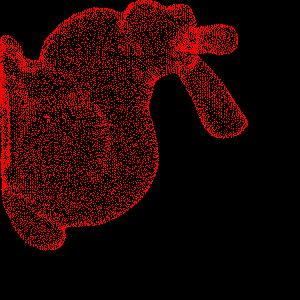
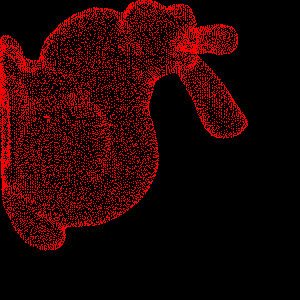
added Barycentric Coordinate counting and rect drawing

diff --git a/src/main/java/com/project/worker2d/ImageCreate.java b/src/main/java/com/project/worker2d/ImageCreate.java
@@ -1,56 +1,45 @@
 package com.project.worker2d;
 
+import com.project.utils.MathFunctions;
 import com.project.worker3d.Point3d;
 
 import java.util.Comparator;
 import java.util.List;
-import java.util.function.Function;
 
 public class ImageCreate {
-    private final Image image;
+    private Image image;
 
     public ImageCreate(Image image) {
         this.image = image;
     }
 
-    public void createStar() {
-        Function<Integer, Double> alpha = i -> 2 * Math.PI * i / 13;
-        for (int i = 0; i < 16; i++) {
-            var x = (int) Math.round(100 + 95 * Math.cos(alpha.apply(i)));
-            var y = (int) Math.round(100 + 95 * Math.sin(alpha.apply(i)));
-            line(x, y, image.width / 2, image.height / 2, image.matrix, Pixel.red());
-        }
-        image.save();
-    }
-
-    private void line(int x0, int y0, int x1, int y1, Pixel[][] matrix, Pixel pixel) {
-        for (float t = 0; t < 1; t += 0.01) {
-            int x = (int) (x0 * (1 - t) + x1 * t);
-            int y = (int) (y0 * (1 - t) + y1 * t);
-            matrix[x][y] = pixel;
-        }
-    }
-
-    public void create3dLines(List<Point3d> points) {
-        double minX = points.stream().min(Comparator.comparing((point) -> point.x)).get().x;
-        double minY = points.stream().min(Comparator.comparing((point) -> point.y)).get().y;
-        int k = 2500;
-        points.forEach(point1 -> {
-            points.forEach(point2 -> {
-                line(((int) ((point1.y - minY) * k)), (int)((point1.x - minX) * k),
-                        ((int) ((point2.y - minY) * k)), ((int) ((point2.x - minX) * k)), image.matrix, Pixel.red());
-            });
-        });
-        image.save();
+    public void setImage(Image image) {
+        this.image = image;
     }
 
     public void create3dPoints(List<Point3d> points) {
         double minX = points.stream().min(Comparator.comparing((point) -> point.x)).get().x;
         double minY = points.stream().min(Comparator.comparing((point) -> point.y)).get().y;
         int k = 2500;
-        points.forEach(point -> {
-            image.matrix[((int) ((point.y - minY) * k))][(int) ((point.x - minX) * k)] = Pixel.red();
-        });
+        points.forEach(point ->
+                image.matrix[((int) ((point.y - minY) * k))][(int) ((point.x - minX) * k)] = Pixel.red()
+        );
         image.save();
+    }
+
+    public void createRectangle(Point3d point1, Point3d point2, Point3d point3) {
+        var matrix = this.image.matrix;
+        for (int x = 0; x < matrix.length; x++) {
+            var row = matrix[x];
+            for (int y = 0; y < row.length; y++) {
+                var cord = MathFunctions.countBarycentricCoordinate(new Point3d(x, y, 0), point1, point2, point3);
+                if (cord.isGreaterThen0()) {
+                    matrix[x][y] = Pixel.red();
+                }
+            }
+
+        }
+        image.save();
+
     }
 }

diff --git a/src/main/java/com/project/utils/MathFunctions.java b/src/main/java/com/project/utils/MathFunctions.java
@@ -1,0 +1,37 @@
+package com.project.utils;
+
+import com.project.worker3d.Point3d;
+
+import java.util.Arrays;
+
+public class MathFunctions {
+    public static BarycentricCoordinate countBarycentricCoordinate(Point3d point, Point3d point0, Point3d point1, Point3d point2) {
+        int x = (int) point.x;
+        int y = (int) point.y;
+        double x0 = point0.x;
+        double x1 = point1.x;
+        double x2 = point2.x;
+        double y0 = point0.y;
+        double y1 = point1.y;
+        double y2 = point2.y;
+        return countBarycentricCoordinate(x, y, x0, x1, x2, y0, y1, y2);
+    }
+
+    public static BarycentricCoordinate countBarycentricCoordinate(
+            int x, int y, double x0, double x1, double x2, double y0, double y1, double y2) {
+
+        double lambda0 = ((x1 - x2) * (y - y2) - (y1 - y2) * (x - x2)) / ((x1 - x2) * (y0 - y2) - (y1 - y2) * (x0 - x2));
+        double lambda1 = ((x2 - x0) * (y - y0) - (y2 - y0) * (x - x0)) / ((x2 - x0) * (y1 - y0) - (y2 - y0) * (x1 - x0));
+        double lambda2 = ((x0 - x1) * (y - y1) - (y0 - y1) * (x - x1)) / ((x0 - x1) * (y2 - y1) - (y0 - y1) * (x2 - x1));
+        return new BarycentricCoordinate(lambda0, lambda1, lambda2);
+    }
+
+    public static double min(double... points) {
+        double res = Arrays.stream(points).min().orElse(0);
+        return res < 0 ? 0 : res;
+    }
+
+    public static double max(double... points) {
+        return Arrays.stream(points).min().orElse(0);
+    }
+}

diff --git a/src/main/java/com/project/Main.java b/src/main/java/com/project/Main.java
@@ -3,6 +3,7 @@ package com.project;
 import com.project.worker2d.Image;
 import com.project.worker2d.ImageCreate;
 import com.project.worker3d.ObjParser;
+import com.project.worker3d.Point3d;
 
 import java.util.Scanner;
 
@@ -20,5 +21,14 @@ public class Main {
         ObjParser parser = new ObjParser();
         parser.parseFile("test.obj");
         imageCreate.create3dPoints(parser.getPoints());
+        image = new Image(W, H, "rect.png");
+        image.colorToBlack();
+        imageCreate.setImage(image);
+        imageCreate.createRectangle(new Point3d(10, 10, 0), new Point3d(150, 50, 0), new Point3d(200, 20, 0));
+        image = new Image(W, H, "rect1.png");
+        image.colorToBlack();
+        imageCreate.setImage(image);
+        imageCreate.createRectangle(new Point3d(-100, 10, 0), new Point3d(150, 299, 0), new Point3d(299, 10, 0));
+
     }
 }

diff --git a/src/main/java/com/project/utils/BarycentricCoordinate.java b/src/main/java/com/project/utils/BarycentricCoordinate.java
@@ -1,0 +1,15 @@
+package com.project.utils;
+
+public class BarycentricCoordinate {
+    public double lambda1, lambda2, lambda;
+
+    public BarycentricCoordinate(double lambda1, double lambda2, double lambda) {
+        this.lambda1 = lambda1;
+        this.lambda2 = lambda2;
+        this.lambda = lambda;
+    }
+
+    public boolean isGreaterThen0() {
+        return this.lambda > 0 && this.lambda1 > 0 && this.lambda2 > 0;
+    }
+}

diff --git a/src/main/java/com/project/worker2d/Image.java b/src/main/java/com/project/worker2d/Image.java
@@ -46,7 +46,7 @@ public class Image {
                 }
             }
             File output = new File(this.path);
-            ImageIO.write(image, "jpg", output);
+            ImageIO.write(image, "png", output);
         } catch (Exception e) {
             e.printStackTrace();
         }
